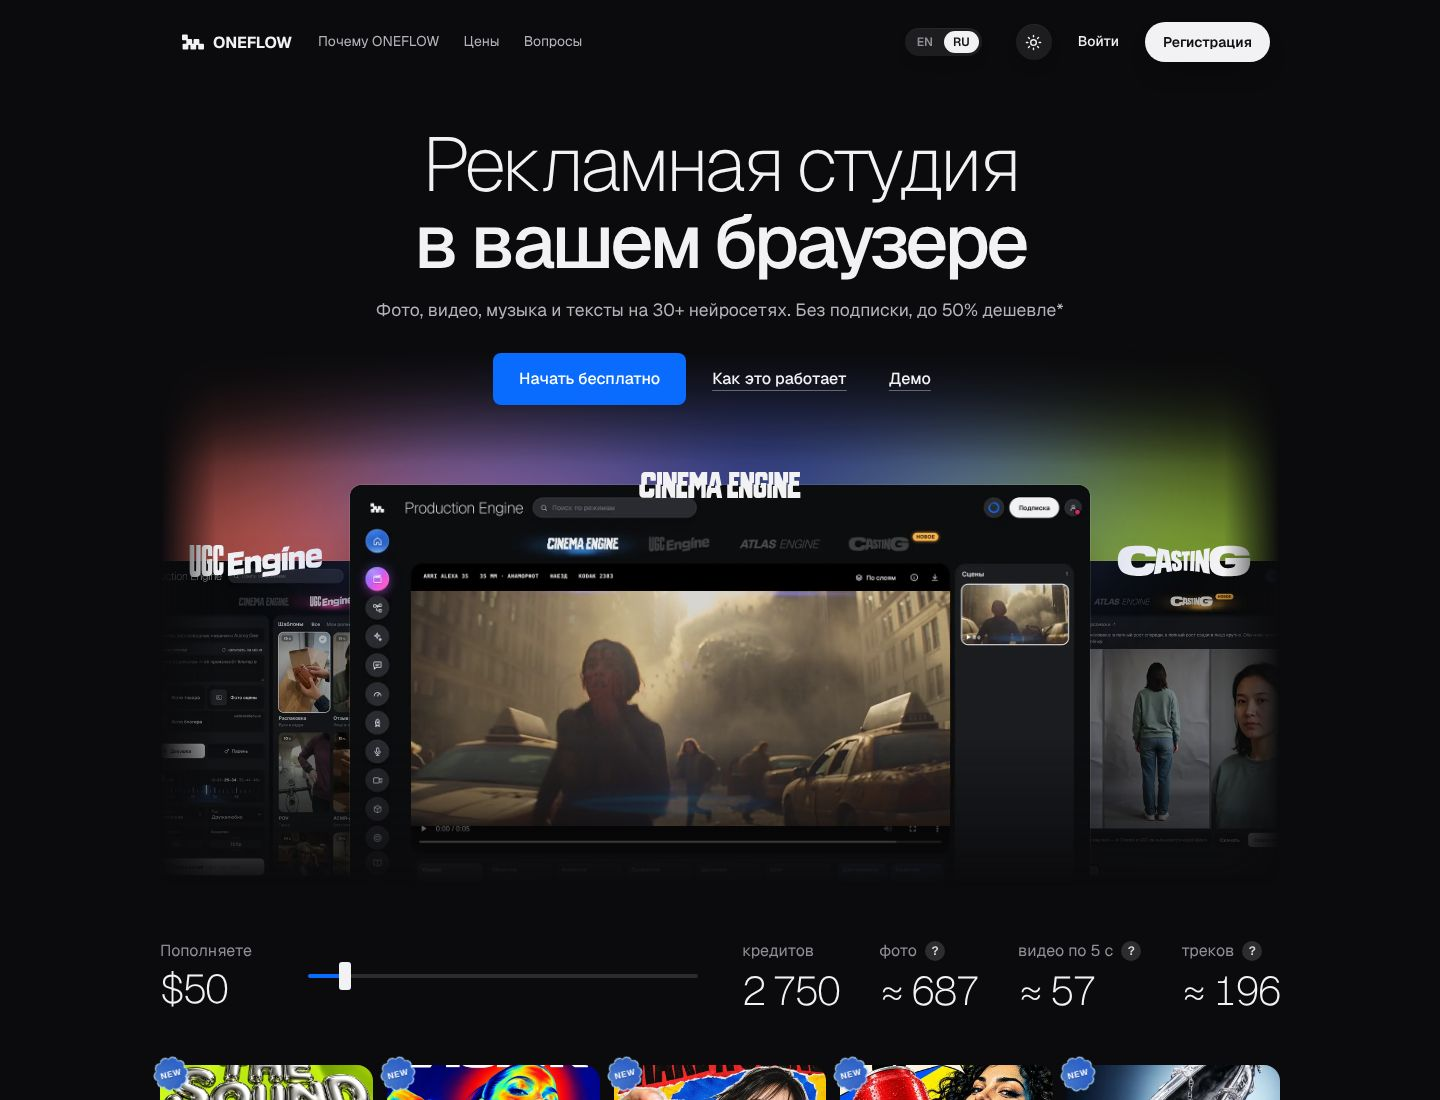
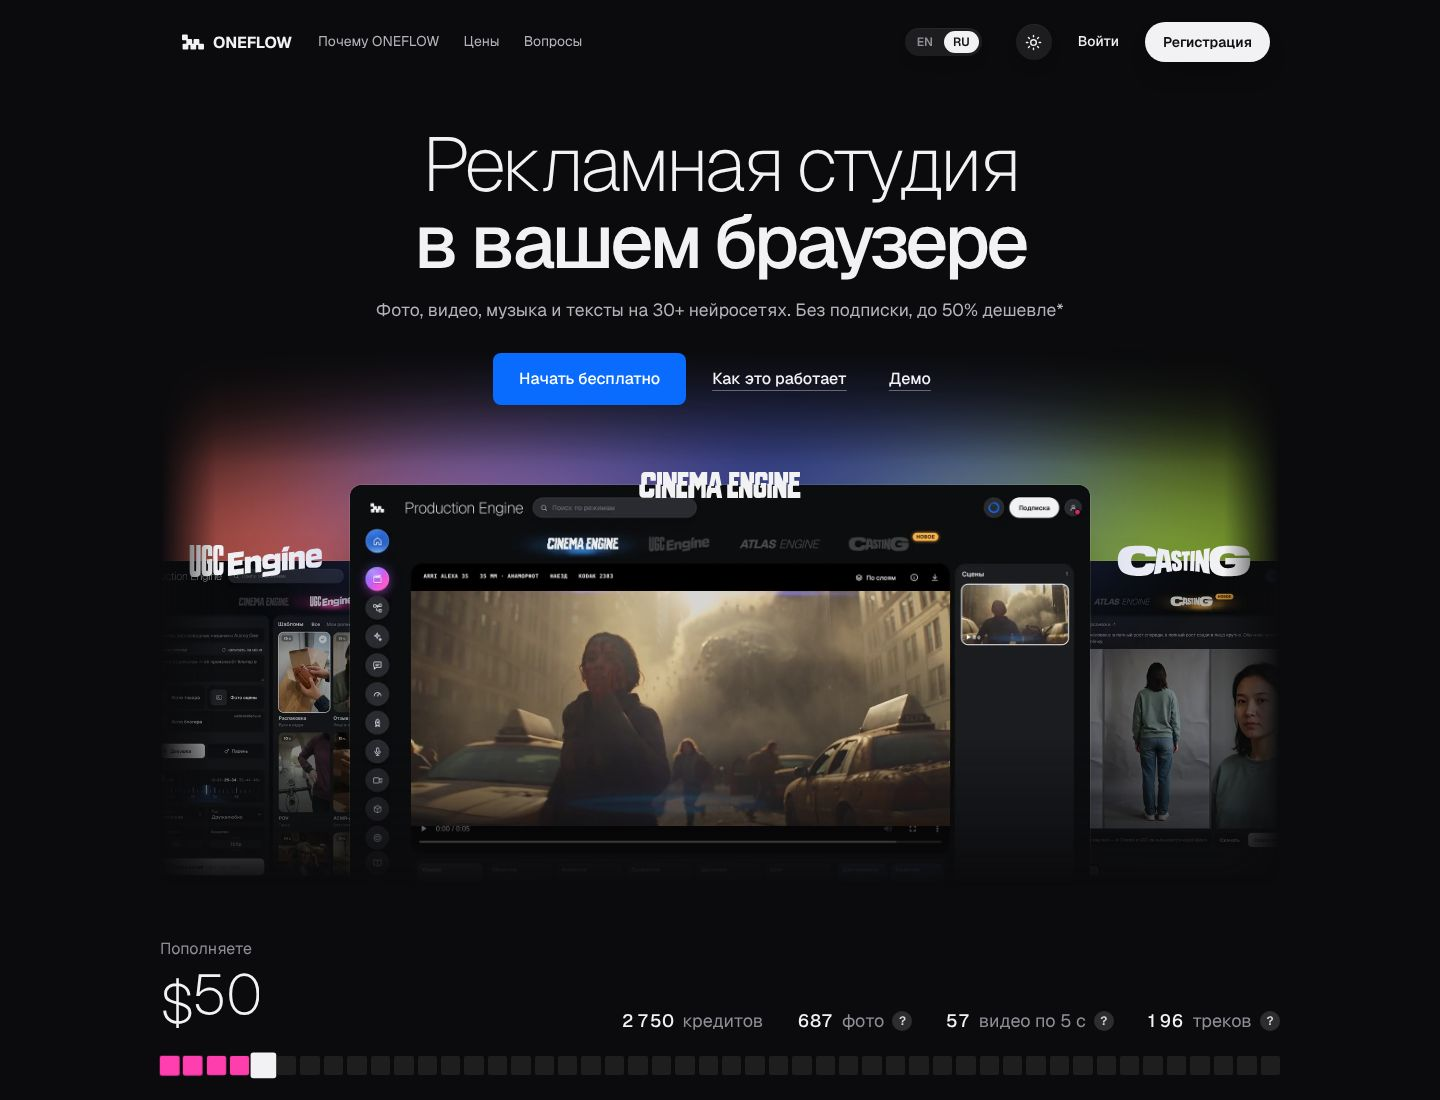
Hero draft: the top-up strip as a row of squares that pulse, with rolling digits
Claude-Session: https://claude.ai/code/session_018a2KjtpEKLUTJU5P3jAt1D

diff --git a/landing/hero_draft/topup_ru.html b/landing/hero_draft/topup_ru.html
@@ -1,14 +1,49 @@
-<section class="hs" id="topup"><div class="wrap hs-in"><div class="hs-pay"><label for="hsTop">Пополняете</label><b data-o="usd">$50</b></div><input id="hsTop" type="range" min="10" max="500" step="10" value="50" aria-label="Сумма пополнения в долларах"><div class="hs-out"><div><b data-o="credits">2 750</b><span>кредитов</span></div><div><b data-o="photo">≈ 687</b><span>фото<button type="button" class="hs-q" aria-label="Как посчитано: Nano Banana 2.1 · 1K · 4 кредита за фото">?<i role="tooltip">Nano Banana 2.1 · 1K · 4 кредита за фото</i></button></span></div><div><b data-o="video">≈ 57</b><span>видео по 5 с<button type="button" class="hs-q r" aria-label="Как посчитано: Seedance 2.5 · 480p · 5 секунд со звуком · 48 кредитов">?<i role="tooltip">Seedance 2.5 · 480p · 5 секунд со звуком · 48 кредитов</i></button></span></div><div><b data-o="music">≈ 196</b><span>треков<button type="button" class="hs-q r" aria-label="Как посчитано: Suno V6 · два варианта трека за запрос · 14 кредитов">?<i role="tooltip">Suno V6 · два варианта трека за запрос · 14 кредитов</i></button></span></div></div></div><script>
+<section class="hs" id="topup"><div class="wrap">
+<div class="hs-top"><div class="hs-sum"><label for="hsTop">Пополняете</label><b class="hs-roll" data-o="usd"></b></div>
+<div class="hs-out"><span><b class="hs-roll" data-o="credits"></b> кредитов</span><span><b class="hs-roll" data-o="photo"></b> фото<button type="button" class="hs-q" aria-label="Как посчитано: Nano Banana 2.1 · 1K · 4 кредита за фото">?<i role="tooltip">Nano Banana 2.1 · 1K · 4 кредита за фото</i></button></span><span><b class="hs-roll" data-o="video"></b> видео по 5 с<button type="button" class="hs-q r" aria-label="Как посчитано: Seedance 2.5 · 480p · 5 секунд со звуком · 48 кредитов">?<i role="tooltip">Seedance 2.5 · 480p · 5 секунд со звуком · 48 кредитов</i></button></span><span><b class="hs-roll" data-o="music"></b> треков<button type="button" class="hs-q r" aria-label="Как посчитано: Suno V6 · два варианта трека за запрос · 14 кредитов">?<i role="tooltip">Suno V6 · два варианта трека за запрос · 14 кредитов</i></button></span></div></div>
+<div class="hs-px"><div class="hs-cells" aria-hidden="true"></div><input id="hsTop" type="range" min="10" max="500" step="10" value="50" aria-label="Сумма пополнения в долларах"></div>
+</div><script>
+/* The top-up strip: the squares light up to the chosen sum and the last lit ones pulse — the larger the sum, the
+   stronger; every number rolls to its new value like a drum. Credits per $1 as in the pricing section; a photo
+   is Nano Banana 2.1 (4 credits), a video Seedance 2.5, 5 s at 480p (48), a track Suno V6 (14). */
 (function () {
   var root = document.getElementById('topup'); if (!root) return;
-  var COST = { photo: 4, video: 48, music: 14 }, GAP = ' ', r = root.querySelector('input');
+  var COST = { photo: 4, video: 48, music: 14 }, GAP = ' ', N = 48, PULSE = 7;
+  var HUES = [326, 300, 262, 236, 212, 190, 158, 110, 70, 36];
+  var r = root.querySelector('input'), box = root.querySelector('.hs-cells'), cells = [];
+  for (var i = 0; i < N; i++) {
+    var c = document.createElement('i');
+    c.style.setProperty('--c', 'hsl(' + HUES[Math.min(HUES.length - 1, Math.floor(i * HUES.length / N))] + ' 100% 62%)');
+    box.appendChild(c); cells.push(c);
+  }
   function sp(n) { return String(n).replace(/\B(?=(\d{3})+(?!\d))/g, GAP); }
+  /* a number as columns of digits: a column slides to its digit; columns are added and taken away on the left */
+  function roll(el, text) {
+    var want = text.split(''), have = [].slice.call(el.children);
+    while (have.length > want.length) el.removeChild(have.shift());
+    while (have.length < want.length) { var s = document.createElement('span'); el.insertBefore(s, el.firstChild); have.unshift(s); }
+    want.forEach(function (ch, k) {
+      var s = have[k], digit = ch >= '0' && ch <= '9';
+      if (!digit) { s.className = 'hs-ch'; s.textContent = ch; return; }
+      if (s.className !== 'hs-col') { s.className = 'hs-col'; s.innerHTML = '<u>0<br>1<br>2<br>3<br>4<br>5<br>6<br>7<br>8<br>9</u>'; }
+      s.firstChild.style.transform = 'translateY(' + (-Number(ch) * 10) + '%)';
+    });
+    el.setAttribute('aria-label', text);
+  }
   function draw() {
-    var usd = Number(r.value), credits = usd * (usd < 50 ? 50 : usd < 200 ? 55 : 60);
-    root.querySelector('[data-o=usd]').textContent = '$' + usd;
-    root.querySelector('[data-o=credits]').textContent = sp(credits);
-    for (var k in COST) root.querySelector('[data-o=' + k + ']').textContent = '≈ ' + sp(Math.floor(credits / COST[k]));
-    r.style.setProperty('--hspos', ((usd - 10) / 490 * 100) + '%');
+    var usd = Number(r.value), credits = usd * (usd < 50 ? 50 : usd < 200 ? 55 : 60), part = (usd - 10) / 490;
+    var lit = Math.max(1, Math.round(part * (N - 1)) + 1), amp = usd / 500;
+    roll(root.querySelector('[data-o=usd]'), '$' + usd);
+    roll(root.querySelector('[data-o=credits]'), sp(credits));
+    for (var k in COST) roll(root.querySelector('[data-o=' + k + ']'), sp(Math.floor(credits / COST[k])));
+    box.style.setProperty('--amp', amp.toFixed(3));
+    box.style.setProperty('--beat', (1.5 - amp * 0.85).toFixed(2) + 's');
+    cells.forEach(function (c, i) {
+      var back = lit - 1 - i; /* 0 is the square under the thumb */
+      c.className = i < lit - 1 ? 'on' : i === lit - 1 ? 'on at' : '';
+      /* the last lit squares pulse, the nearer to the end the more */
+      if (back > 0 && back <= PULSE) { c.classList.add('beat'); c.style.setProperty('--near', (1 - (back - 1) / PULSE).toFixed(2)); c.style.animationDelay = (-back * 0.09).toFixed(2) + 's'; }
+    });
   }
   r.addEventListener('input', draw); draw();
 })();

diff --git a/landing/hero_draft/topup_en.html b/landing/hero_draft/topup_en.html
@@ -1,14 +1,49 @@
-<section class="hs" id="topup"><div class="wrap hs-in"><div class="hs-pay"><label for="hsTop">You top up</label><b data-o="usd">$50</b></div><input id="hsTop" type="range" min="10" max="500" step="10" value="50" aria-label="Top-up amount in dollars"><div class="hs-out"><div><b data-o="credits">2,750</b><span>credits</span></div><div><b data-o="photo">≈ 687</b><span>images<button type="button" class="hs-q" aria-label="How it is counted: Nano Banana 2.1 · 1K · 4 credits per image">?<i role="tooltip">Nano Banana 2.1 · 1K · 4 credits per image</i></button></span></div><div><b data-o="video">≈ 57</b><span>5 s videos<button type="button" class="hs-q r" aria-label="How it is counted: Seedance 2.5 · 480p · 5 seconds with sound · 48 credits">?<i role="tooltip">Seedance 2.5 · 480p · 5 seconds with sound · 48 credits</i></button></span></div><div><b data-o="music">≈ 196</b><span>tracks<button type="button" class="hs-q r" aria-label="How it is counted: Suno V6 · two takes per request · 14 credits">?<i role="tooltip">Suno V6 · two takes per request · 14 credits</i></button></span></div></div></div><script>
+<section class="hs" id="topup"><div class="wrap">
+<div class="hs-top"><div class="hs-sum"><label for="hsTop">You top up</label><b class="hs-roll" data-o="usd"></b></div>
+<div class="hs-out"><span><b class="hs-roll" data-o="credits"></b> credits</span><span><b class="hs-roll" data-o="photo"></b> images<button type="button" class="hs-q" aria-label="How it is counted: Nano Banana 2.1 · 1K · 4 credits per image">?<i role="tooltip">Nano Banana 2.1 · 1K · 4 credits per image</i></button></span><span><b class="hs-roll" data-o="video"></b> 5 s videos<button type="button" class="hs-q r" aria-label="How it is counted: Seedance 2.5 · 480p · 5 seconds with sound · 48 credits">?<i role="tooltip">Seedance 2.5 · 480p · 5 seconds with sound · 48 credits</i></button></span><span><b class="hs-roll" data-o="music"></b> tracks<button type="button" class="hs-q r" aria-label="How it is counted: Suno V6 · two takes per request · 14 credits">?<i role="tooltip">Suno V6 · two takes per request · 14 credits</i></button></span></div></div>
+<div class="hs-px"><div class="hs-cells" aria-hidden="true"></div><input id="hsTop" type="range" min="10" max="500" step="10" value="50" aria-label="Top-up amount in dollars"></div>
+</div><script>
+/* The top-up strip: the squares light up to the chosen sum and the last lit ones pulse — the larger the sum, the
+   stronger; every number rolls to its new value like a drum. Credits per $1 as in the pricing section; a photo
+   is Nano Banana 2.1 (4 credits), a video Seedance 2.5, 5 s at 480p (48), a track Suno V6 (14). */
 (function () {
   var root = document.getElementById('topup'); if (!root) return;
-  var COST = { photo: 4, video: 48, music: 14 }, GAP = ',', r = root.querySelector('input');
+  var COST = { photo: 4, video: 48, music: 14 }, GAP = ',', N = 48, PULSE = 7;
+  var HUES = [326, 300, 262, 236, 212, 190, 158, 110, 70, 36];
+  var r = root.querySelector('input'), box = root.querySelector('.hs-cells'), cells = [];
+  for (var i = 0; i < N; i++) {
+    var c = document.createElement('i');
+    c.style.setProperty('--c', 'hsl(' + HUES[Math.min(HUES.length - 1, Math.floor(i * HUES.length / N))] + ' 100% 62%)');
+    box.appendChild(c); cells.push(c);
+  }
   function sp(n) { return String(n).replace(/\B(?=(\d{3})+(?!\d))/g, GAP); }
+  /* a number as columns of digits: a column slides to its digit; columns are added and taken away on the left */
+  function roll(el, text) {
+    var want = text.split(''), have = [].slice.call(el.children);
+    while (have.length > want.length) el.removeChild(have.shift());
+    while (have.length < want.length) { var s = document.createElement('span'); el.insertBefore(s, el.firstChild); have.unshift(s); }
+    want.forEach(function (ch, k) {
+      var s = have[k], digit = ch >= '0' && ch <= '9';
+      if (!digit) { s.className = 'hs-ch'; s.textContent = ch; return; }
+      if (s.className !== 'hs-col') { s.className = 'hs-col'; s.innerHTML = '<u>0<br>1<br>2<br>3<br>4<br>5<br>6<br>7<br>8<br>9</u>'; }
+      s.firstChild.style.transform = 'translateY(' + (-Number(ch) * 10) + '%)';
+    });
+    el.setAttribute('aria-label', text);
+  }
   function draw() {
-    var usd = Number(r.value), credits = usd * (usd < 50 ? 50 : usd < 200 ? 55 : 60);
-    root.querySelector('[data-o=usd]').textContent = '$' + usd;
-    root.querySelector('[data-o=credits]').textContent = sp(credits);
-    for (var k in COST) root.querySelector('[data-o=' + k + ']').textContent = '≈ ' + sp(Math.floor(credits / COST[k]));
-    r.style.setProperty('--hspos', ((usd - 10) / 490 * 100) + '%');
+    var usd = Number(r.value), credits = usd * (usd < 50 ? 50 : usd < 200 ? 55 : 60), part = (usd - 10) / 490;
+    var lit = Math.max(1, Math.round(part * (N - 1)) + 1), amp = usd / 500;
+    roll(root.querySelector('[data-o=usd]'), '$' + usd);
+    roll(root.querySelector('[data-o=credits]'), sp(credits));
+    for (var k in COST) roll(root.querySelector('[data-o=' + k + ']'), sp(Math.floor(credits / COST[k])));
+    box.style.setProperty('--amp', amp.toFixed(3));
+    box.style.setProperty('--beat', (1.5 - amp * 0.85).toFixed(2) + 's');
+    cells.forEach(function (c, i) {
+      var back = lit - 1 - i; /* 0 is the square under the thumb */
+      c.className = i < lit - 1 ? 'on' : i === lit - 1 ? 'on at' : '';
+      /* the last lit squares pulse, the nearer to the end the more */
+      if (back > 0 && back <= PULSE) { c.classList.add('beat'); c.style.setProperty('--near', (1 - (back - 1) / PULSE).toFixed(2)); c.style.animationDelay = (-back * 0.09).toFixed(2) + 's'; }
+    });
   }
   r.addEventListener('input', draw); draw();
 })();

diff --git a/landing/hero_draft/topup.css b/landing/hero_draft/topup.css
@@ -1,19 +1,34 @@
-/* the strip under the hero: a top-up slider and what it buys — one thin row, no card, no outlines */
-.hs { padding: 6px 0 46px; }
-.hs .hs-in { display: grid; grid-template-columns: auto minmax(220px, 1fr) auto; align-items: center; gap: 44px; }
-.hs .hs-pay label, .hs .hs-out span { display: block; font: 400 16px/1 var(--d); color: var(--muted); white-space: nowrap; }
-.hs .hs-pay b, .hs .hs-out b { display: block; margin-top: 10px; font: 200 40px/1 var(--d); letter-spacing: -.045em; color: var(--ink); white-space: nowrap; font-variant-numeric: tabular-nums; }
-.hs .hs-pay b { min-width: 104px; }
-.hs .hs-out { display: flex; gap: 40px; }
-.hs .hs-out > div { display: flex; flex-direction: column-reverse; }
-.hs .hs-out b { margin: 10px 0 0; }
-.hs .hs-out span { display: flex; align-items: center; gap: 8px; min-height: 20px; }
+/* the strip under the hero (variant L, chosen 2026-11-20): a top-up slider drawn as a row of squares and what
+   the sum buys — no card, no outlines */
+.hs { padding: 6px 0 50px; }
+.hs .hs-top { display: flex; align-items: flex-end; justify-content: space-between; gap: 40px; margin-bottom: 24px; }
+.hs .hs-sum label { display: block; margin-bottom: 10px; font: 400 16px/1 var(--d); color: var(--muted); }
+.hs .hs-sum b { display: block; font: 200 56px/1 var(--d); letter-spacing: -.05em; color: var(--ink); }
+.hs .hs-out { display: flex; gap: 34px; }
+.hs .hs-out > span { display: flex; align-items: center; gap: 8px; min-height: 22px; font: 400 18px/1 var(--d); color: var(--muted); white-space: nowrap; }
+.hs .hs-out > span > b { font: 500 18px/1 var(--d); color: var(--ink); }
+/* a number that rolls: each digit is a column of ten */
+.hs .hs-roll { display: inline-flex; font-variant-numeric: tabular-nums; }
+.hs .hs-col { display: inline-block; height: 1em; overflow: hidden; }
+.hs .hs-col u { display: block; text-decoration: none; line-height: 1; transition: transform .55s cubic-bezier(.2, .9, .25, 1); will-change: transform; }
+.hs .hs-ch { display: inline-block; white-space: pre; }
+/* the squares; the real range input lies over them, invisible, so the keyboard and touch work as usual */
+.hs .hs-px { position: relative; }
+.hs .hs-cells { display: flex; gap: 4px; }
+.hs .hs-cells i { flex: 1; aspect-ratio: 1; border-radius: 2px; background: rgba(255,255,255,.08); transition: background .2s; }
+.hs .hs-cells i.on { background: var(--c); }
+.hs .hs-cells i.at { background: #f2f2f4; transform: scale(1.35); }
+.hs .hs-cells i.beat { animation: hs-beat var(--beat, 1.4s) ease-in-out infinite; }
+@keyframes hs-beat {
+  0%, 100% { transform: scale(1); filter: brightness(1); box-shadow: 0 0 0 0 transparent; }
+  50% { transform: scale(calc(1 + .5 * var(--amp, 0) * var(--near, 0))); filter: brightness(calc(1 + .7 * var(--amp, 0) * var(--near, 0))); box-shadow: 0 0 calc(22px * var(--amp, 0) * var(--near, 0)) var(--c); }
+}
+.hs .hs-px input { position: absolute; inset: -10px 0; width: 100%; height: calc(100% + 20px); margin: 0; opacity: 0; cursor: pointer; -webkit-appearance: none; appearance: none; }
+.hs .hs-px:has(input:focus-visible) .hs-cells i.at { box-shadow: 0 0 0 3px #0a6cff; }
 /* the small «?» beside a name: what model, size and price the number is counted by */
 .hs .hs-q { position: relative; flex: none; width: 20px; height: 20px; padding: 0; border: 0; border-radius: 50%; background: rgba(255,255,255,.14); color: #d6d7de; font: 600 12px/20px var(--d); text-align: center; cursor: help; }
 .hs .hs-q:hover, .hs .hs-q:focus-visible { background: #0a6cff; color: #fff; outline: 0; }
 .hs .hs-q i { position: absolute; z-index: 5; left: 50%; bottom: 30px; transform: translateX(-50%); width: max-content; max-width: 280px; padding: 12px 14px; border-radius: 8px; background: #1f2026; color: #f2f2f4; font: 400 15px/1.4 var(--d); font-style: normal; text-align: left; white-space: normal; box-shadow: 0 14px 30px rgba(0,0,0,.5); opacity: 0; visibility: hidden; transition: opacity .12s; pointer-events: none; }
 .hs .hs-q.r i { left: auto; right: -12px; transform: none; }
-.hs .hs-q:hover i, .hs .hs-q:focus i, .hs .hs-q.open i { opacity: 1; visibility: visible; }
-.hs input[type=range] { -webkit-appearance: none; appearance: none; width: 100%; height: 4px; margin: 0; border: 0; border-radius: 2px; background: linear-gradient(90deg, #0a6cff var(--hspos, 8.16%), rgba(255,255,255,.14) var(--hspos, 8.16%)); cursor: pointer; }
-.hs input[type=range]::-webkit-slider-thumb { -webkit-appearance: none; width: 12px; height: 28px; border-radius: 3px; background: #f2f2f4; }
-.hs input[type=range]::-moz-range-thumb { width: 12px; height: 28px; border: 0; border-radius: 3px; background: #f2f2f4; }
+.hs .hs-q:hover i, .hs .hs-q:focus i { opacity: 1; visibility: visible; }
+@media (prefers-reduced-motion: reduce) { .hs .hs-cells i.beat { animation: none; } .hs .hs-col u { transition: none; } }

diff --git a/landing/hero_draft/README.md b/landing/hero_draft/README.md
@@ -28,8 +28,12 @@
 
 ## Полоса с ползунком под hero (20.11.2026)
 
-`topup_ru.html`, `topup_en.html`, `topup.css` — узкая секция сразу под hero, над баннерами новинок: сумма
-пополнения $10–500 и сколько это кредитов, фото, видео и треков. Без карточки и обводок.
+`topup_ru.html`, `topup_en.html`, `topup.css` — узкая секция сразу под hero, над баннерами новинок. Выбран
+вариант L из `slider-styles-3.png`: шкала из 48 квадратиков (радиус 2 px), которые загораются цветом до
+выбранной суммы $10–500. Последние семь горящих квадратиков пульсируют — тем сильнее и чаще, чем больше сумма.
+Числа (сумма, кредиты, фото, видео, треки) меняются «барабаном»: каждая цифра прокручивается по вертикали.
+Поверх квадратиков лежит невидимый настоящий ползунок, поэтому работают касание и клавиши-стрелки. При
+«уменьшить движение» пульсации и прокрутки нет.
 
 | Что | Модель | Цена провайдера | Кредитов |
 | --- | --- | --- | --- |
